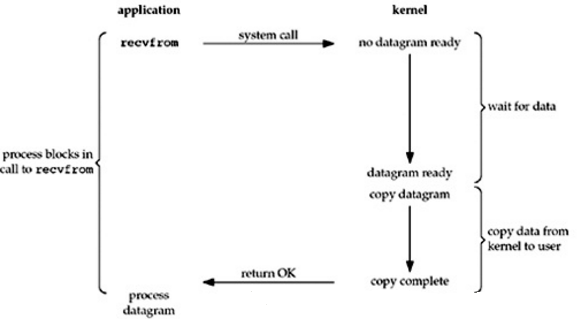
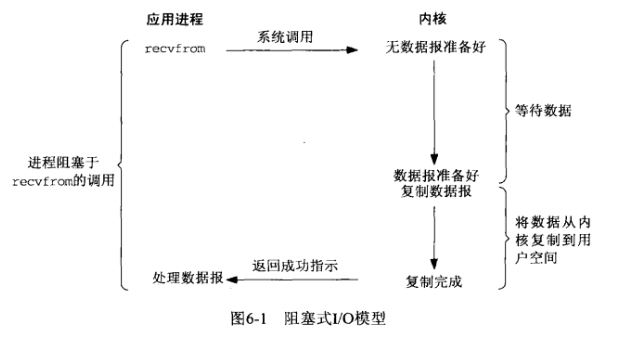
update posts about network IO

diff --git a/2019/05/10/网络IO模型/index.html b/2019/05/10/网络IO模型/index.html
@@ -79,23 +79,25 @@
 
 
 
-<meta name="description" content="在学习JAVA NIO的时候有学习到相关的BIO、NIO、AIO的概念，以及一直对阻塞、非阻塞、异步等IO模型的知识感到非常模糊，要清楚JAVA的NIO是什么，以及基础的操作系统的网络IO模型，在此总结下网络IO模型的基础知识。">
+<meta name="description" content="在学习JAVA NIO的时候有学习到相关的BIO、NIO、AIO的概念，以及一直对阻塞、非阻塞、异步等IO模型的知识感到非常模糊，要清楚JAVA的NIO是什么，以及基础的操作系统的网络IO模型，在此总结下网络IO模型的基础知识。 不得不感叹信息爆炸的时代，想学点东西但是到处都是误人子弟的文章和copy的内容，但是自己还想快餐式的学点重点，先简单学习下，真正细致的学习还是要看看《UNIX网络编程》。">
 <meta property="og:type" content="article">
 <meta property="og:title" content="网络IO模型">
 <meta property="og:url" content="http://yoursite.com/2019/05/10/网络IO模型/index.html">
 <meta property="og:site_name" content="LiuBo&#39;s Notes">
-<meta property="og:description" content="在学习JAVA NIO的时候有学习到相关的BIO、NIO、AIO的概念，以及一直对阻塞、非阻塞、异步等IO模型的知识感到非常模糊，要清楚JAVA的NIO是什么，以及基础的操作系统的网络IO模型，在此总结下网络IO模型的基础知识。">
+<meta property="og:description" content="在学习JAVA NIO的时候有学习到相关的BIO、NIO、AIO的概念，以及一直对阻塞、非阻塞、异步等IO模型的知识感到非常模糊，要清楚JAVA的NIO是什么，以及基础的操作系统的网络IO模型，在此总结下网络IO模型的基础知识。 不得不感叹信息爆炸的时代，想学点东西但是到处都是误人子弟的文章和copy的内容，但是自己还想快餐式的学点重点，先简单学习下，真正细致的学习还是要看看《UNIX网络编程》。">
 <meta property="og:locale" content="default">
 <meta property="og:image" content="http://yoursite.com/image/IO/IO模型00.png">
+<meta property="og:image" content="http://yoursite.com/image/IO/IO模型00.jpg">
 <meta property="og:image" content="http://yoursite.com/image/IO/IO模型01.png">
 <meta property="og:image" content="http://yoursite.com/image/IO/IO模型02.png">
 <meta property="og:image" content="http://yoursite.com/image/IO/IO模型04.png">
 <meta property="og:image" content="http://yoursite.com/image/IO/IO模型03.png">
 <meta property="og:image" content="http://yoursite.com/image/IO/IO模型05.png">
-<meta property="og:updated_time" content="2019-05-10T10:09:05.091Z">
+<meta property="og:image" content="http://yoursite.com/image/IO/IO模型07.png">
+<meta property="og:updated_time" content="2019-05-13T03:49:41.119Z">
 <meta name="twitter:card" content="summary">
 <meta name="twitter:title" content="网络IO模型">
-<meta name="twitter:description" content="在学习JAVA NIO的时候有学习到相关的BIO、NIO、AIO的概念，以及一直对阻塞、非阻塞、异步等IO模型的知识感到非常模糊，要清楚JAVA的NIO是什么，以及基础的操作系统的网络IO模型，在此总结下网络IO模型的基础知识。">
+<meta name="twitter:description" content="在学习JAVA NIO的时候有学习到相关的BIO、NIO、AIO的概念，以及一直对阻塞、非阻塞、异步等IO模型的知识感到非常模糊，要清楚JAVA的NIO是什么，以及基础的操作系统的网络IO模型，在此总结下网络IO模型的基础知识。 不得不感叹信息爆炸的时代，想学点东西但是到处都是误人子弟的文章和copy的内容，但是自己还想快餐式的学点重点，先简单学习下，真正细致的学习还是要看看《UNIX网络编程》。">
 <meta name="twitter:image" content="http://yoursite.com/image/IO/IO模型00.png">
 
 
@@ -339,8 +341,25 @@
 
       
         <p>在学习JAVA NIO的时候有学习到相关的BIO、NIO、AIO的概念，以及一直对阻塞、非阻塞、异步等IO模型的知识感到非常模糊，要清楚JAVA的NIO是什么，以及基础的操作系统的网络IO模型，在此总结下网络IO模型的基础知识。</p>
+<p>不得不感叹信息爆炸的时代，想学点东西但是到处都是误人子弟的文章和copy的内容，但是自己还想快餐式的学点重点，先简单学习下，真正细致的学习还是要看看《UNIX网络编程》。</p>
 <a id="more"></a>
-<h1 id="几个基础概念"><a href="#几个基础概念" class="headerlink" title="几个基础概念"></a>几个基础概念</h1><h2 id="IO模型"><a href="#IO模型" class="headerlink" title="IO模型"></a>IO模型</h2><p>linux系统IO分为内核准备数据和将数据从内核拷贝到用户空间两个阶段。<br><img src="/image/IO/IO模型00.png" alt="IO模型00"><br>这张图大致描述了数据从外部磁盘向运行中程序的内存中移动的过程。</p>
+<h1 id="几个基础概念"><a href="#几个基础概念" class="headerlink" title="几个基础概念"></a>几个基础概念</h1><h2 id="什么是IO"><a href="#什么是IO" class="headerlink" title="什么是IO"></a>什么是IO</h2><p>我们都知道unix世界里、一切皆文件、而文件是什么呢？文件就是一串二进制流而已、不管socket、还是FIFO、管道、终端、对我们来说、一切都是文件、一切都是流、在信息交换的过程中、我们都是对这些流进行数据的收发操作、简称为I/O操作(input and output)、往流中读出数据、系统调用read、写入数据、系统调用write、不过话说回来了、计算机里有这么多的流、我怎么知道要操作哪个流呢？做到这个的就是文件描述符、即通常所说的fd、一个fd就是一个整数、所以对这个整数的操作、就是对这个文件（流）的操作、我们创建一个socket、通过系统调用会返回一个文件描述符、那么剩下对socket的操作就会转化为对这个描述符的操作、不能不说这又是一种分层和抽象的思想。</p>
+<h2 id="IO的交互"><a href="#IO的交互" class="headerlink" title="IO的交互"></a>IO的交互</h2><p><img src="/image/IO/IO模型00.png" alt="IO模型00"></p>
+<p>通常用户进程中的一个完整IO分为两阶段：</p>
+<ul>
+<li>用户空间 <-----> 内核空间</-----></li>
+<li>内核空间 <-----> 设备空间</-----></li>
+</ul>
+<p><img src="/image/IO/IO模型00.jpg" alt="IO模型00"></p>
+<p>内核空间中存放的是内核代码和数据、而进程的用户空间中存放的是用户程序的代码和数据、不管是内核空间还是用户空间、它们都处于虚拟空间中、Linux使用两级保护机制：0级供内核使用、3级供用户程序使用。</p>
+<p>操作系统和驱动程序运行在内核空间、应用程序运行在用户空间、两者不能简单地使用指针传递数据、因为Linux使用的虚拟内存机制、其必须通过系统调用请求kernel来协助完成IO动作、内核会为每个IO设备维护一个缓冲区、用户空间的数据可能被换出、当内核空间使用用户空间指针时、对应的数据可能不在内存中。</p>
+<p>对于一个输入操作来说、进程IO系统调用后、内核会先看缓冲区中有没有相应的缓存数据、没有的话再到设备中读取、因为设备IO一般速度较慢、需要等待、内核缓冲区有数据则直接复制到进程空间。</p>
+<p>所以、对于一个网络输入操作通常包括两个不同阶段：</p>
+<ol>
+<li>等待网络数据到达网卡 –&gt; 读取到内核缓冲区</li>
+<li>从内核缓冲区复制数据 –&gt; 用户空间</li>
+</ol>
+<p>IO有内存IO、网络IO和磁盘IO三种、通常我们说的IO指的是后两者</p>
 <h2 id="用户空间、内核空间"><a href="#用户空间、内核空间" class="headerlink" title="用户空间、内核空间"></a>用户空间、内核空间</h2><p>现在操作系统都是采用虚拟存储器，那么对32位操作系统而言，它的寻址空间（虚拟储存空间）为4G（2的32次方）。操作系统的核心是内核，独立于普通的应用程序，可以访问受保护的内存空间，也有访问底层硬件设备的所有权限。为了保证用户进程不能直接操作内核，保证内核的安全，操作系统将虚拟空间划分为两个部分，一个部分为内核空间，一部分为用户空间。</p>
 <p>如何分配这两个空间的大小也是有讲究的，如windows 32位操作系统，默认的用户空间：内核空间的比例是1:1;而在32位Linux系统中的默认比例是3:1（3G用户空间，1G内核空间）。</p>
 <h2 id="进程切换"><a href="#进程切换" class="headerlink" title="进程切换"></a>进程切换</h2><p>为了控制进程的执行，内核必须要有能力挂起正在CPU上运行的进程，并恢复以前挂起的某个进程的执行。这种行为成为进程的切换。任何进程都是在操作系统内核的支持下运行的，是与内核紧密相关的。</p>
@@ -349,14 +368,16 @@
 <li>保存处理机上下文，包括程序计数器和其他寄存器。</li>
 <li>更新PCB信息。</li>
 <li>将进程的PCB移入相应的队列，如就绪、在某事件阻塞等队列。</li>
-<li>选择另外一个进程执行，并更新PCB</li>
+<li>选择另外一个进程执行，并更新PCB。</li>
 <li>更新内存管理的数据结构。</li>
-<li>恢复处理机上下文</li>
+<li>恢复处理机上下文。</li>
 </ol>
 <h2 id="缓存IO"><a href="#缓存IO" class="headerlink" title="缓存IO"></a>缓存IO</h2><p>缓存IO又称称为标准IO，大多数文件系统的默认IO操作都是缓存IO。在Linux的缓存IO机制中，操作系统会将IO的数据缓存在文件系统的页缓存（page cache）。也就是说，数据会先被拷贝到操作系统内核的缓冲区中，然后才会从操作系统内核的缓存区拷贝到应用程序的地址空间中。</p>
 <p>这种做法的缺点就是，需要在应用程序地址空间和内核进行多次拷贝，这些拷贝动作所带来的CPU以及内存开销是非常大的。</p>
 <h2 id="同步、异步、阻塞、非阻塞"><a href="#同步、异步、阻塞、非阻塞" class="headerlink" title="同步、异步、阻塞、非阻塞"></a>同步、异步、阻塞、非阻塞</h2><p>同步与异步：描述的是用户线程与内核的交互方式，同步指用户线程发起IO请求后需要等待或者轮询内核IO操作完成后才能继续执行；而异步是指用户线程发起IO请求后仍然继续执行，当内核IO操作完成后会通知用户线程，或者调用用户线程注册的回调函数。</p>
 <p>阻塞与非阻塞：描述是用户线程调用内核IO操作的方式，阻塞是指IO操作需要彻底完成后才返回到用户空间；而非阻塞是指IO操作被调用后立即返回给用户一个状态值，无需等到IO操作彻底完成。</p>
+<h2 id="并行与并发"><a href="#并行与并发" class="headerlink" title="并行与并发"></a>并行与并发</h2><p>先弄明白并发和并行的区别：比如去某部门办事需要依次去几个窗口，办事大厅的人数就是并发数，而窗口的个数就是并行度。就是说并发是同时进行的任务数（如同时服务的http请求），而并行数就是可以同时工作的物理资源数量（如cpu核数）。</p>
+<p>通过合理调度任务的不同阶段，并发数可以远远大于并行度。这就是区区几个CPU可以支撑上万个用户并发请求的原因。在这种高并发的情况下，为每个用户请求创建一个进程或者线程的开销非常大。而同步非阻塞方式可以把多个IO请求丢到后台去，这样一个CPU就可以服务大量的并发IO请求。</p>
 <h1 id="Linux-IO模型"><a href="#Linux-IO模型" class="headerlink" title="Linux IO模型"></a>Linux IO模型</h1><p>网络IO的本质就是socket的读取，socket在linux系统被抽象为流，IO可以理解为对流的操作。文章开始的时候也提到了，对于一次IO访问（以read为例），数据会先被拷贝到操作系统内核的缓冲区，然后才会从操作系统内核的缓冲区拷贝到应用程序的地址空间中。所以说，当一个read操作发生时，它会经历两个阶段：</p>
 <ul>
 <li>第一个阶段：等待数据准备。</li>
@@ -369,24 +390,57 @@
 </ul>
 <p>当然，如果内核空间的缓冲区中已经有数据了，那么就可以省略第一步。至于为什么不能直接让磁盘控制器把数据送到应用程序的地址空间中呢？最简单的一个原因就是应用程序不能直接操作底层硬件。</p>
 <p>网络应用需要处理的无非就是两大类问题，网络IO，数据计算。相对于后者，网络IO的延迟，给应用带来的性能瓶颈大于后者。网络IO的模型大致分为如下五种：</p>
-<h2 id="阻塞IO（blocking-I-O）"><a href="#阻塞IO（blocking-I-O）" class="headerlink" title="阻塞IO（blocking I/O）"></a>阻塞IO（blocking I/O）</h2><p>通俗点描述：A拿着一支鱼竿在河边钓鱼，并且一直在鱼竿前等，在等的时候不做其他的事情，十分专心。只有鱼上钩的时，才结束掉等的动作，把鱼钓上来。</p>
+<h2 id="阻塞IO（blocking-I-O）"><a href="#阻塞IO（blocking-I-O）" class="headerlink" title="阻塞IO（blocking I/O）"></a>阻塞IO（blocking I/O）</h2><p><img src="/image/IO/IO模型01.png" alt="IO模型01"></p>
 <p>在这个模型中，应用程序为了执行这个read操作，会调用相应的一个system call，将系统控制权交给内核，然后就进行等待（这个等待的过程就是被阻塞了），内核开始执行这个system call，执行完毕后会向应用程序返回响应，应用程序得到响应后，就不再阻塞，并进行后面的工作。</p>
+<p>用户进程调用了recvfrom这个系统调用，内核就开始了IO的第一个阶段：准备数据。对于网络IO来说，很多时候数据在一开始还没有到达（比如、还没有收到一个完整的UDP包），这个时候内核就要等待足够的数据到来，而在用户进程这边，整个进程会被阻塞。当内核一直等到数据准备好了，它就会将数据从内核中拷贝到用户内存，然后返回结果，用户进程才解除阻塞的状态，重新运行起来，几乎所有的程序员第一次接触到的网络编程都是从listen()、send()、recv()等接口开始的，这些接口都是阻塞型的。</p>
+<p>blocking IO的特点就是在IO执行的两个阶段（等待数据和拷贝数据两个阶段）都被阻塞了。</p>
 <ul>
-<li>优点：能够及时返回数据，无延迟。</li>
-<li>缺点：对用户来说处于等待就要付出性能代价。</li>
+<li>典型应用：阻塞Socket、Java BIO</li>
+<li>优点：进程阻塞挂起不消耗CPU资源，及时响应每个操作。实现难度低，开发应用较容易。</li>
+<li>缺点：对用户来说处于等待就要付出性能代价。适用并发量小的网络应用开发。不适用并发量大的应用。</li>
 </ul>
-<p><img src="/image/IO/IO模型01.png" alt="IO模型01"></p>
-<h2 id="非阻塞IO（noblocking-I-O）"><a href="#非阻塞IO（noblocking-I-O）" class="headerlink" title="非阻塞IO（noblocking I/O）"></a>非阻塞IO（noblocking I/O）</h2><p>通俗点描述：B也在河边钓鱼，但是B不想将自己的所有时间都花费在钓鱼上，在等鱼上钩这个时间段中，B也在做其他的事情（一会看看书，一会读读报纸，一会又去看其他人的钓鱼等），但B在做这些事情的时候，每隔一个固定的时间检查鱼是否上钩。一旦检查到有鱼上钩，就停下手中的事情，把鱼钓上来。</p>
+<h2 id="非阻塞IO（noblocking-I-O）"><a href="#非阻塞IO（noblocking-I-O）" class="headerlink" title="非阻塞IO（noblocking I/O）"></a>非阻塞IO（noblocking I/O）</h2><p><img src="/image/IO/IO模型02.png" alt="IO模型02"></p>
 <p>当用户进程发出read操作时，调用相应的system call，这个system call会立即从内核中返回。但是在返回的这个时间点，内核中的数据可能还没有准备好，也就是说内核只是很快就返回了system call，只有这样才不会阻塞用户进程，对于应用程序，虽然这个IO操作很快就返回了，但是它并不知道这个IO操作是否真的成功了，为了知道IO操作是否成功，应用程序需要主动的循环去问内核。</p>
 <ul>
-<li>优点：能够在等待的时间里去做其他的事情。</li>
-<li>缺点：任务完成的响应延迟增大了，因为每过一段时间去轮询一次read操作，而任务可能在两次轮询之间的任意时间完成，这对导致整体数据吞吐量的降低。</li>
+<li>缺点：进程轮询（重复）调用、消耗CPU的资源</li>
 </ul>
-<p><img src="/image/IO/IO模型02.png" alt="IO模型02"></p>
 <h2 id="多路复用IO（I-O-multiplexing）"><a href="#多路复用IO（I-O-multiplexing）" class="headerlink" title="多路复用IO（I/O multiplexing）"></a>多路复用IO（I/O multiplexing）</h2><p><img src="/image/IO/IO模型04.png" alt="IO模型04"></p>
+<p>多个的进程的IO可以注册到一个复用器（select）上，当用户进程调用该select，select会监听所有注册进来的IO。如果select所有监听的IO在内核缓冲区都没有可读数据，select调用进程会被阻塞，而当任一IO在内核缓冲区中有可数据时，select调用就会返回，而后select调用进程可以自己或通知另外的进程（注册进程）来再次发起读取IO，读取内核中准备好的数据，多个进程注册IO后，只有一个select调用进程被阻塞。</p>
+<p>IO复用相对阻塞和非阻塞更难简单说明，所以额外解释一段。其实IO复用模型和阻塞IO模型并没有太大的不同，事实上还更差一些，因为这里需要使用两个系统调用（select和 recvfrom），而阻塞IO模型只有一次系统调用(recvfrom)。但是，用select的优势在于它可以同时处理多个连接，所以如果处理的连接数不是很高的话，使用select/epoll的web server不一定比使用多线程加阻塞IO的web server性能更好，可能延迟还更大，select/epoll的优势并不是对于单个连接能处理得更快，而是在于能处理更多的连接。</p>
+<p>在IO复用模型中，对于每一个socket一般都设置成为非阻塞。但是，如上图所示，整个用户的进程其实是一直被阻塞的，只不过进程是被select这个函数阻塞，而不是被socket IO给阻塞。</p>
+<p>调用system call之后，并不等待内核的返回结果而是立即返回。虽然返回结果的调用函数是一个异步的方式，但应用程序会被像select、poll和epoll等具有多个文件描述符的函数阻塞住，一直等到这个system call有结果返回了，再通知应用程序。这种情况，从IO操作的实际效果来看，异步阻塞IO和第一种同步阻塞IO是一样的，应用程序都是一直等到IO操作成功之后（数据已经被写入或者读取），才开始进行下面的工作。不同点在于异步阻塞IO用一个select函数可以为多个文件描述符提供通知，提供了并发性。举个例子：例如有一万个并发的read请求，但是网络上仍然没有数据，此时这一万个read会同时各自阻塞，现在用select、poll、epoll这样的函数来专门负责阻塞同时监听这一万个请求的状态，一旦有数据到达了就负责通知，这样就将一万个等待和阻塞转化为一个专门的函数来负责与管理。</p>
+<p>多路复用技术应用于JAVA NIO的核心类库多路复用器Selector中，目前支持I/O多路复用的系统调用有select、pselect、poll、epoll，在linux编程中有一段时间一直在使用select做轮询和网络事件通知的，但是select支持一个进程打开的socket描述符（FD）收到了限制，一般为1024，由于这一限制，现在使用了epoll代替了select，而epoll支持一个进程打开的FD不受限制。</p>
+<p>异步IO与同步IO的区别在于：同步IO是需要应用程序主动地循环去询问是否有数据，而异步IO是通过像select等IO多路复用函数来同时检测多个事件句柄来告知应用程序是否有数据。</p>
+<p>了解了前面三种IO模式，在用户进程进行系统调用的时候，他们在等待数据到来的时候，处理的方式是不一样的，直接等待、轮询、select或poll轮询，两个阶段过程：</p>
+<ul>
+<li>第一个阶段有的阻塞，有的不阻塞，有的可以阻塞又可以不阻塞。</li>
+<li>第二个阶段都是阻塞的。</li>
+</ul>
+<p>从整个IO过程来看，他们都是顺序执行的，因此可以归为同步模型，都是进程自动等待且向内核检查状态。</p>
+<p>IO多路复用究竟是同步阻塞还是异步阻塞模型，这里来展开说说：</p>
+<p>同步是需要主动等待消息通知，而异步则是被动接受消息通知，通过回调、通知、状态等方式来被动获取消息。IO多路复用在阻塞到select阶段时，用户进程是主动等待并调用select函数来获取就绪状态消息，并且其进程状态为阻塞。所以IO多路复用是同步阻塞模式。</p>
+<ul>
+<li>典型应用：Java NIO、Nginx（epoll、poll、select）</li>
+</ul>
 <h2 id="信号驱动IO（signal-blocking-I-O）"><a href="#信号驱动IO（signal-blocking-I-O）" class="headerlink" title="信号驱动IO（signal blocking I/O）"></a>信号驱动IO（signal blocking I/O）</h2><p><img src="/image/IO/IO模型03.png" alt="IO模型03"></p>
+<p>信号驱动式IO就是指进程预先告知内核，向内核注册一个信号处理函数，然后用户进程返回不阻塞，当内核数据就绪时会发送一个信号给进程，用户进程便在信号处理函数中调用IO读取数据，从图中明白实际IO内核拷贝到用户进程的过程还是阻塞的，信号驱动式IO并没有实现真正的异步，因为通知到进程之后，依然是由进程来完成IO操作。</p>
+<p>这和后面的异步IO模型很容易混淆，需要理解IO交互并结合五种IO模型的比较阅读。</p>
+<p>在信号驱动式IO模型中，依然不符合POSIX描述的异步IO，只能算是半异步，并且实际中并不常用。</p>
 <h2 id="异步IO（asynchronous-I-O）"><a href="#异步IO（asynchronous-I-O）" class="headerlink" title="异步IO（asynchronous I/O）"></a>异步IO（asynchronous I/O）</h2><p><img src="/image/IO/IO模型05.png" alt="IO模型05"></p>
+<p>用户进程发起aio_read（POSIX异步IO函数aio_或者lio_开头）操作之后、给内核传递描述符、缓冲区指针、缓冲区大小和read相同的三个参数以及文件偏移（与lseek类似），告诉内核当整个操作完成时，如何通知我们，立刻就可以开始去做其它的事。而另一方面，从内核的角度，当它受到一个aio_read之后，首先它会立刻返回。所以不会对用户进程产生任何阻塞。然后，内核会等待数据准备完成，然后将数据拷贝到用户内存，当这一切都完成之后，内核会给用户进程发送一个信号，告诉它aio_read操作完成了。</p>
+<p>异步IO的工作机制是：告知内核启动某个操作，并让内核在整个操作完成后通知我们。这种模型与信号驱动的IO区别在于，信号驱动IO是由内核通知我们何时可以启动一个IO操作，这个IO操作由用户自定义的信号函数来实现，而异步IO模型是由内核告知我们IO操作何时完成。</p>
+<p>这和前面的信号驱动式IO模型很容易混淆，需要理解IO交互并结合五种IO模型的比较阅读。</p>
+<p>在异步IO模型中，真正实现了POSIX描述的异步IO，是五种IO模型中唯一的异步模型。</p>
+<p>需要操作系统的底层支持，LINUX 2.5 版本内核首现，2.6 版本产品的内核标准特性。</p>
+<h1 id="五种IO模型比较"><a href="#五种IO模型比较" class="headerlink" title="五种IO模型比较"></a>五种IO模型比较</h1><p><img src="/image/IO/IO模型07.png" alt="IO模型05"></p>
+<h2 id="阻塞IO和非阻塞IO的区别在哪？"><a href="#阻塞IO和非阻塞IO的区别在哪？" class="headerlink" title="阻塞IO和非阻塞IO的区别在哪？"></a>阻塞IO和非阻塞IO的区别在哪？</h2><p>调用阻塞会一直阻塞住对应的进程直到操作完成，而非阻塞IO在内核还没准备数据的情况下会立刻返回。阻塞和非阻塞关注的是进程在等待调用结果时的状态，阻塞是指调用结果返回之前，当前进程会被挂起。调用进程只有在得到结果才会返回，非阻塞调用指不能立刻得到结果，该调用不会阻塞当前进程。</p>
+<h2 id="同步IO和异步IO区别在哪？"><a href="#同步IO和异步IO区别在哪？" class="headerlink" title="同步IO和异步IO区别在哪？"></a>同步IO和异步IO区别在哪？</h2><p>两者的区别就在于同步做IO操作的时候会将进程阻塞。按照这个定义，之前所述的阻塞IO、非阻塞IO、IO复用、信号驱动都属于同步IO。有人可能会说，非阻塞IO并没有被阻塞啊，这里有个非常狡猾的地方。定义中所指的IO操作是指真实的IO操作，就是例子中的recvfrom这个系统调用，非阻塞IO在执行recvfrom这个系统调用的时候，如果内核的数据没有准备好，这时候不会阻塞进程。但是，当内核中数据准备好的时候，recvfrom会将数据从内核拷贝到用户内存中，这个时候进程是被阻塞了。信号驱动也是同样的道理，在这段时间内，进程是被阻塞的。而异步IO则不一样，当进程发起IO操作之后，就直接返回再也不理睬了，直到内核发送一个信号，告诉进程说IO完成，在这整个过程中，进程完全没有被阻塞。</p>
+<p>同异步IO的根本区别在于：同步IO主动的调用recvfrom来将数据拷贝到用户内存。而异步则完全不同，它就像是用户进程将整个IO操作交给了他人（内核）完成，然后他人做完后发信号通知，在此期间，用户进程不需要去检查IO操作的状态，也不需要主动的去拷贝数据。</p>
+<h2 id="POSIX的定义"><a href="#POSIX的定义" class="headerlink" title="POSIX的定义"></a>POSIX的定义</h2><p>A synchronous I/O operation causes the requesting process to be blocked until that I/O operation completes</p>
+<p>An asynchronous I/O operation does not cause the requesting process to be blocked</p>
+<h2 id="信号驱动式IO和异步IO的区别？"><a href="#信号驱动式IO和异步IO的区别？" class="headerlink" title="信号驱动式IO和异步IO的区别？"></a>信号驱动式IO和异步IO的区别？</h2><p>这里之所以单独拿出来是因为如果还没有清除IO概念很容易混淆，所以理解IO模型之前一定要理解IO概念。如果看完前面两个问题，相信也能理解信号驱动IO与异步IO的区别在于启用异步IO意味着通知内核启动某个IO操作，并让内核在整个操作（包括数据从内核复制到用户缓冲区）完成时通知我们，也就是说，异步IO是由内核通知我们IO操作何时完成，即实际的IO操作也是异步的，信号驱动IO是由内核通知我们何时可以启动一个IO操作，这个IO操作由用户自定义的信号函数来实现。</p>
 <h1 id="参考资料"><a href="#参考资料" class="headerlink" title="参考资料"></a>参考资料</h1><ul>
+<li><a href="http://www.360doc.com/content/19/0511/15/64010826_835008660.shtml" target="_blank" rel="noopener">http://www.360doc.com/content/19/0511/15/64010826_835008660.shtml</a></li>
 <li><a href="https://www.cnblogs.com/dongguacai/p/5770287.html" target="_blank" rel="noopener">https://www.cnblogs.com/dongguacai/p/5770287.html</a></li>
 <li><a href="https://blog.csdn.net/ZWE7616175/article/details/80591587" target="_blank" rel="noopener">https://blog.csdn.net/ZWE7616175/article/details/80591587</a></li>
 </ul>
@@ -565,7 +619,7 @@
             
 
             
-              <div class="post-toc-content"><ol class="nav"><li class="nav-item nav-level-1"><a class="nav-link" href="#几个基础概念"><span class="nav-number">1.</span> <span class="nav-text">几个基础概念</span></a><ol class="nav-child"><li class="nav-item nav-level-2"><a class="nav-link" href="#IO模型"><span class="nav-number">1.1.</span> <span class="nav-text">IO模型</span></a></li><li class="nav-item nav-level-2"><a class="nav-link" href="#用户空间、内核空间"><span class="nav-number">1.2.</span> <span class="nav-text">用户空间、内核空间</span></a></li><li class="nav-item nav-level-2"><a class="nav-link" href="#进程切换"><span class="nav-number">1.3.</span> <span class="nav-text">进程切换</span></a></li><li class="nav-item nav-level-2"><a class="nav-link" href="#缓存IO"><span class="nav-number">1.4.</span> <span class="nav-text">缓存IO</span></a></li><li class="nav-item nav-level-2"><a class="nav-link" href="#同步、异步、阻塞、非阻塞"><span class="nav-number">1.5.</span> <span class="nav-text">同步、异步、阻塞、非阻塞</span></a></li></ol></li><li class="nav-item nav-level-1"><a class="nav-link" href="#Linux-IO模型"><span class="nav-number">2.</span> <span class="nav-text">Linux IO模型</span></a><ol class="nav-child"><li class="nav-item nav-level-2"><a class="nav-link" href="#阻塞IO（blocking-I-O）"><span class="nav-number">2.1.</span> <span class="nav-text">阻塞IO（blocking I/O）</span></a></li><li class="nav-item nav-level-2"><a class="nav-link" href="#非阻塞IO（noblocking-I-O）"><span class="nav-number">2.2.</span> <span class="nav-text">非阻塞IO（noblocking I/O）</span></a></li><li class="nav-item nav-level-2"><a class="nav-link" href="#多路复用IO（I-O-multiplexing）"><span class="nav-number">2.3.</span> <span class="nav-text">多路复用IO（I/O multiplexing）</span></a></li><li class="nav-item nav-level-2"><a class="nav-link" href="#信号驱动IO（signal-blocking-I-O）"><span class="nav-number">2.4.</span> <span class="nav-text">信号驱动IO（signal blocking I/O）</span></a></li><li class="nav-item nav-level-2"><a class="nav-link" href="#异步IO（asynchronous-I-O）"><span class="nav-number">2.5.</span> <span class="nav-text">异步IO（asynchronous I/O）</span></a></li></ol></li><li class="nav-item nav-level-1"><a class="nav-link" href="#参考资料"><span class="nav-number">3.</span> <span class="nav-text">参考资料</span></a></li></ol></div>
+              <div class="post-toc-content"><ol class="nav"><li class="nav-item nav-level-1"><a class="nav-link" href="#几个基础概念"><span class="nav-number">1.</span> <span class="nav-text">几个基础概念</span></a><ol class="nav-child"><li class="nav-item nav-level-2"><a class="nav-link" href="#什么是IO"><span class="nav-number">1.1.</span> <span class="nav-text">什么是IO</span></a></li><li class="nav-item nav-level-2"><a class="nav-link" href="#IO的交互"><span class="nav-number">1.2.</span> <span class="nav-text">IO的交互</span></a></li><li class="nav-item nav-level-2"><a class="nav-link" href="#用户空间、内核空间"><span class="nav-number">1.3.</span> <span class="nav-text">用户空间、内核空间</span></a></li><li class="nav-item nav-level-2"><a class="nav-link" href="#进程切换"><span class="nav-number">1.4.</span> <span class="nav-text">进程切换</span></a></li><li class="nav-item nav-level-2"><a class="nav-link" href="#缓存IO"><span class="nav-number">1.5.</span> <span class="nav-text">缓存IO</span></a></li><li class="nav-item nav-level-2"><a class="nav-link" href="#同步、异步、阻塞、非阻塞"><span class="nav-number">1.6.</span> <span class="nav-text">同步、异步、阻塞、非阻塞</span></a></li><li class="nav-item nav-level-2"><a class="nav-link" href="#并行与并发"><span class="nav-number">1.7.</span> <span class="nav-text">并行与并发</span></a></li></ol></li><li class="nav-item nav-level-1"><a class="nav-link" href="#Linux-IO模型"><span class="nav-number">2.</span> <span class="nav-text">Linux IO模型</span></a><ol class="nav-child"><li class="nav-item nav-level-2"><a class="nav-link" href="#阻塞IO（blocking-I-O）"><span class="nav-number">2.1.</span> <span class="nav-text">阻塞IO（blocking I/O）</span></a></li><li class="nav-item nav-level-2"><a class="nav-link" href="#非阻塞IO（noblocking-I-O）"><span class="nav-number">2.2.</span> <span class="nav-text">非阻塞IO（noblocking I/O）</span></a></li><li class="nav-item nav-level-2"><a class="nav-link" href="#多路复用IO（I-O-multiplexing）"><span class="nav-number">2.3.</span> <span class="nav-text">多路复用IO（I/O multiplexing）</span></a></li><li class="nav-item nav-level-2"><a class="nav-link" href="#信号驱动IO（signal-blocking-I-O）"><span class="nav-number">2.4.</span> <span class="nav-text">信号驱动IO（signal blocking I/O）</span></a></li><li class="nav-item nav-level-2"><a class="nav-link" href="#异步IO（asynchronous-I-O）"><span class="nav-number">2.5.</span> <span class="nav-text">异步IO（asynchronous I/O）</span></a></li></ol></li><li class="nav-item nav-level-1"><a class="nav-link" href="#五种IO模型比较"><span class="nav-number">3.</span> <span class="nav-text">五种IO模型比较</span></a><ol class="nav-child"><li class="nav-item nav-level-2"><a class="nav-link" href="#阻塞IO和非阻塞IO的区别在哪？"><span class="nav-number">3.1.</span> <span class="nav-text">阻塞IO和非阻塞IO的区别在哪？</span></a></li><li class="nav-item nav-level-2"><a class="nav-link" href="#同步IO和异步IO区别在哪？"><span class="nav-number">3.2.</span> <span class="nav-text">同步IO和异步IO区别在哪？</span></a></li><li class="nav-item nav-level-2"><a class="nav-link" href="#POSIX的定义"><span class="nav-number">3.3.</span> <span class="nav-text">POSIX的定义</span></a></li><li class="nav-item nav-level-2"><a class="nav-link" href="#信号驱动式IO和异步IO的区别？"><span class="nav-number">3.4.</span> <span class="nav-text">信号驱动式IO和异步IO的区别？</span></a></li></ol></li><li class="nav-item nav-level-1"><a class="nav-link" href="#参考资料"><span class="nav-number">4.</span> <span class="nav-text">参考资料</span></a></li></ol></div>
             
 
           </div>

diff --git a/2019/05/10/lock/index.html b/2019/05/10/lock/index.html
@@ -86,7 +86,7 @@
 <meta property="og:site_name" content="LiuBo&#39;s Notes">
 <meta property="og:description" content="之前已经温习了事务相关的基础知识和概念，在实现事务和关于线程安全等问题时，经常会用到锁，但是并没有对锁的基础知识和概念有一个系统的学习，本文是对锁的基础知识概念学习的一个总结。">
 <meta property="og:locale" content="default">
-<meta property="og:updated_time" content="2019-05-10T10:10:56.378Z">
+<meta property="og:updated_time" content="2019-05-10T10:14:41.770Z">
 <meta name="twitter:card" content="summary">
 <meta name="twitter:title" content="锁的基础知识">
 <meta name="twitter:description" content="之前已经温习了事务相关的基础知识和概念，在实现事务和关于线程安全等问题时，经常会用到锁，但是并没有对锁的基础知识和概念有一个系统的学习，本文是对锁的基础知识概念学习的一个总结。">

diff --git a/index.html b/index.html
@@ -478,6 +478,7 @@
       
         
           <p>在学习JAVA NIO的时候有学习到相关的BIO、NIO、AIO的概念，以及一直对阻塞、非阻塞、异步等IO模型的知识感到非常模糊，要清楚JAVA的NIO是什么，以及基础的操作系统的网络IO模型，在此总结下网络IO模型的基础知识。</p>
+<p>不得不感叹信息爆炸的时代，想学点东西但是到处都是误人子弟的文章和copy的内容，但是自己还想快餐式的学点重点，先简单学习下，真正细致的学习还是要看看《UNIX网络编程》。</p>
           <!--noindex-->
           <div class="post-button text-center">
             <a class="btn" href="/2019/05/10/网络IO模型/" rel="contents">

diff --git a/css/main.css b/css/main.css
@@ -1822,7 +1822,7 @@ pre .javascript .function {
   width: 4px;
   height: 4px;
   border-radius: 50%;
-  background: #fe1bbf;
+  background: #858f87;
 }
 .links-of-blogroll {
   font-size: 13px;
